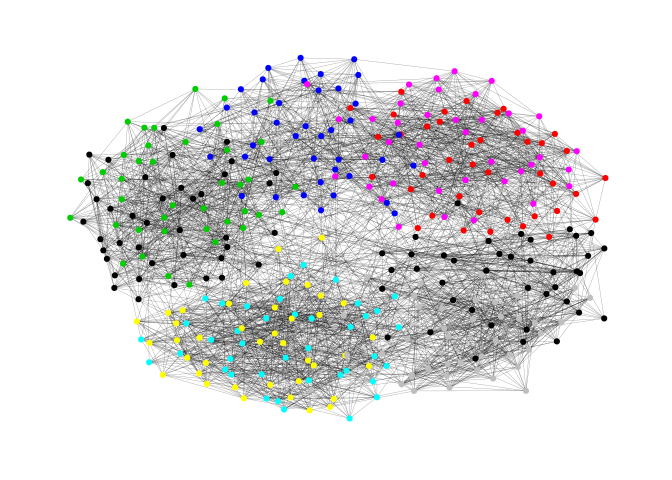
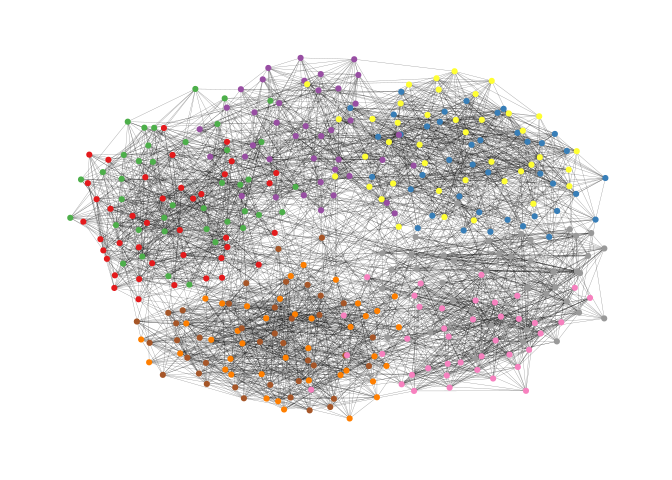
fixed backbone issues

diff --git a/README.md b/README.md
@@ -1,6 +1,7 @@
+
 <!-- README.md is generated from README.Rmd. Please edit that file -->
-smglr
-=====
+
+# smglr
 
 [![Travis build
 status](https://travis-ci.org/schochastics/smglr.svg?branch=master)](https://travis-ci.org/schochastics/smglr)
@@ -15,13 +16,12 @@ an introduction on stress majorization.
 
 So far, the package implements two algorithms:
 
--   Stress majorization
+  - Stress majorization
     ([Paper](https://graphviz.gitlab.io/_pages/Documentation/GKN04.pdf))
--   Quadrilateral backbone layout
+  - Quadrilateral backbone layout
     ([Paper](http://jgaa.info/accepted/2015/NocajOrtmannBrandes2015.19.2.pdf))
 
-Stress Majorization: Connected Network
---------------------------------------
+## Stress Majorization: Connected Network
 
 *This example is a bit of a special case since it exploits some weird
 issues in igraph.*
@@ -55,16 +55,15 @@ ggraph(pa,layout="manual",node.positions=data.frame(x=l[,1],y=l[,2]))+
 
 <img src="figures/README-example-2.png" width="80%" style="display: block; margin: auto;" />
 
-Layout manipulation
--------------------
+## Layout manipulation
 
 The functions `layout_mirror()` and `layout_rotate()` can be used to
-manipulate an existing layout
+manipulate an existing
+layout
 
 <img src="figures/layout_manipulation.png" width="80%" style="display: block; margin: auto;" />
 
-Stress Majorization: Unconnected Network
-----------------------------------------
+## Stress Majorization: Unconnected Network
 
 Stress majorization also works for networks with several components. It
 relies on a bin packing algorithm to efficiently put the components in a
@@ -101,39 +100,44 @@ ggraph(g, layout="manual", node.positions=data.frame(x=l[,1],y=l[,2])) +
 
 <img src="figures/README-example_un-2.png" width="80%" style="display: block; margin: auto;" />
 
-Backbone Layout
----------------
+## Backbone Layout
 
-Backbone layouts are helpful for drawing hairballs. the feature is
-currently not functional
+Backbone layouts are helpful for drawing hairballs.
 
-<!-- # ```{r hairball} -->
-<!-- # set.seed(665) -->
-<!-- # g <- sample_islands(9,40,0.4,15) -->
-<!-- # g <- simplify(g) -->
-<!-- #  -->
-<!-- # xy <- layout_with_stress(g) -->
-<!-- # ggraph(g,layout="manual",node.positions=data.frame(x=xy[,1],y=xy[,2]))+ -->
-<!-- #   geom_edge_link(colour=rgb(0,0,0,0.5),width=0.1)+ -->
-<!-- #   geom_node_point(col=rep(1:9,each=40))+ -->
-<!-- #   theme_graph() -->
-<!-- #  -->
-<!-- # ``` -->
-<!-- #  -->
-<!-- #  -->
-<!-- # The backbone layout helps to uncover potential group structures based on edge embeddedness and puts more emphasis -->
-<!-- # on this structure in the layout. -->
-<!-- # ```{r backbone} -->
-<!-- # bb <- backbone_layout(g,keep=0.4) -->
-<!-- # E(g)$col <- F -->
-<!-- # E(g)$col[bb$backbone] <- T -->
-<!-- #  -->
-<!-- # ggraph(g,layout="manual",node.positions=data.frame(x=bb$xy[,1],y=bb$xy[,2]))+ -->
-<!-- #   geom_edge_link(aes(col=col),width=0.1)+ -->
-<!-- #   geom_node_point(col=rep(1:9,each=40))+ -->
-<!-- #   scale_edge_color_manual(values=c(rgb(0,0,0,0.3),rgb(0,0,0,1)))+ -->
-<!-- #   theme_graph()+ -->
-<!-- #   theme(legend.position ="none") -->
-<!-- #  -->
-<!-- # ``` -->
-<!-- #  -->
+``` r
+set.seed(665)
+#create network with a group structure
+g <- sample_islands(9,40,0.4,15)
+g <- simplify(g)
+V(g)$grp <- as.character(rep(1:9,each=40))
+
+xy <- layout_with_stress(g)
+ggraph(g,layout="manual",node.positions=data.frame(x=xy[,1],y=xy[,2]))+
+  geom_edge_link(colour=rgb(0,0,0,0.5),width=0.1)+
+  geom_node_point(aes(col=grp))+
+  scale_color_brewer(palette = "Set1")+
+  theme_graph()+
+  theme(legend.position = "none")
+```
+
+<img src="figures/README-hairball-1.png" width="80%" style="display: block; margin: auto;" />
+
+The backbone layout helps to uncover potential group structures based on
+edge embeddedness and puts more emphasis on this structure in the
+layout.
+
+``` r
+bb <- backbone_layout(g,keep=0.4)
+E(g)$col <- F
+E(g)$col[bb$backbone] <- T
+
+ggraph(g,layout="manual",node.positions=data.frame(x=bb$xy[,1],y=bb$xy[,2]))+
+  geom_edge_link(aes(col=col),width=0.1)+
+  geom_node_point(aes(col=grp))+
+  scale_color_brewer(palette = "Set1")+
+  scale_edge_color_manual(values=c(rgb(0,0,0,0.3),rgb(0,0,0,1)))+
+  theme_graph()+
+  theme(legend.position = "none")
+```
+
+<img src="figures/README-backbone-1.png" width="80%" style="display: block; margin: auto;" />

diff --git a/NEWS.md b/NEWS.md
@@ -1,3 +1,7 @@
+# smglr 0.0.3.9000
+
+* added `layout_as_backbone()`
+
 # smglr 0.0.2.9000
 
 * added functions to rotate/mirror layouts
